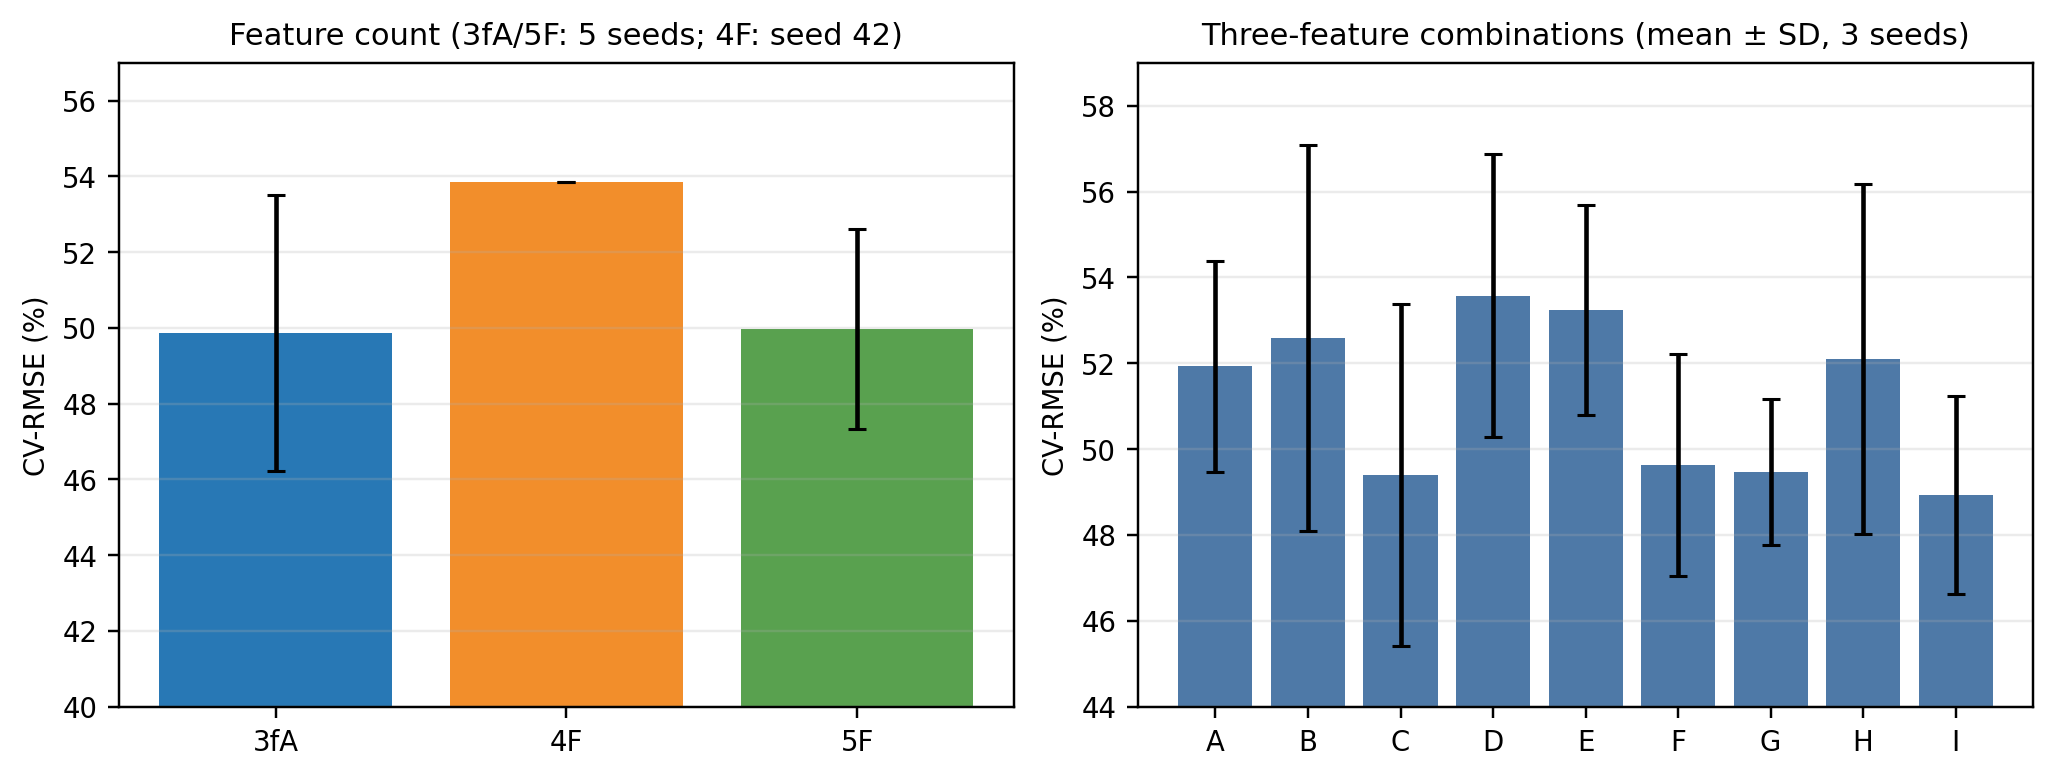
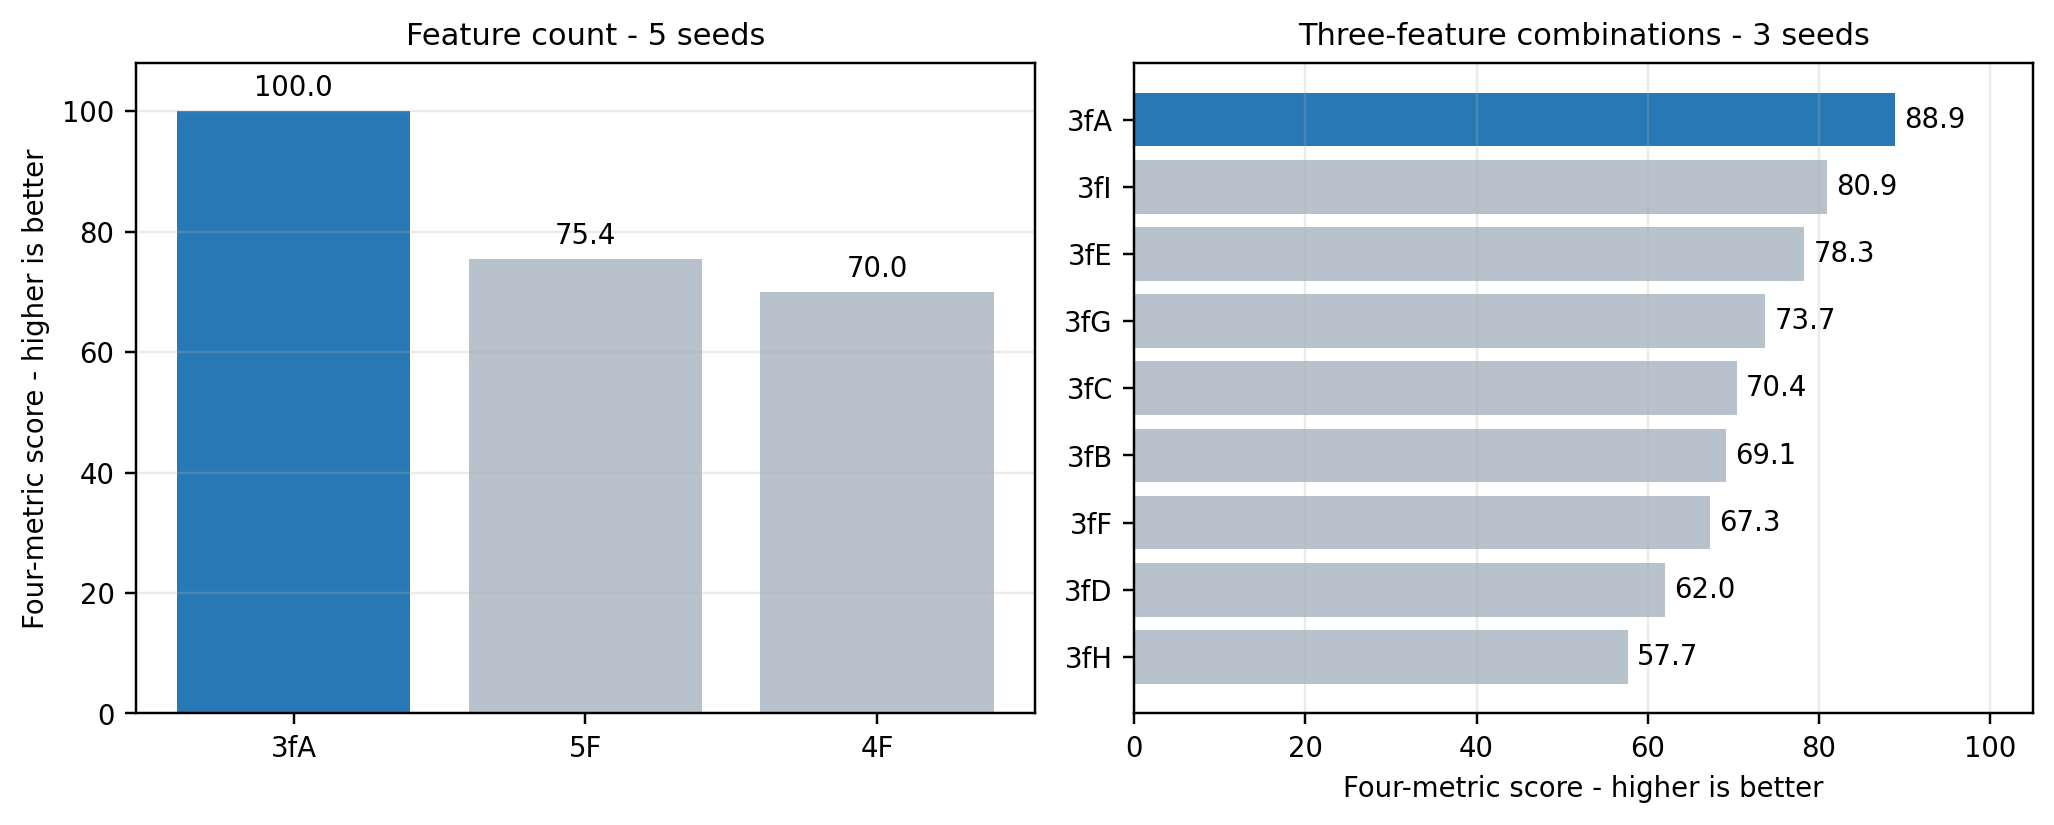
Updated feature ablation analysis, added relative score calculations for four main metrics, and adjusted chart titles and descriptions

diff --git a/report2/build_figures.py b/report2/build_figures.py
@@ -64,13 +64,18 @@ def save_hybrid_ablation() -> None:
 
 
 def save_feature_ablation() -> None:
+    metrics = [
+        "primary_load_cv_rmse_pct",
+        "primary_abs_nmbe_pct",
+        "primary_comfort_degree_hours_per_building_day",
+        "primary_comfort_exceedance_pct",
+    ]
     count_specs = {
         "3fA": ("capacity_load_3f", 5),
         "4F": ("capacity_load_4f", 1),
         "5F": ("capacity_load_5f", 5),
     }
-    count_values: list[float] = []
-    count_errors: list[float] = []
+    count_means: list[pd.Series] = []
     for feature_set, expected_count in count_specs.values():
         rows = PRIMARY.loc[
             (PRIMARY["architecture"] == "TarMAC hybrid")
@@ -81,9 +86,11 @@ def save_feature_ablation() -> None:
             raise ValueError(
                 f"Expected {expected_count} feature-count rows for {feature_set!r}, found {len(rows)}"
             )
-        values = pd.to_numeric(rows["primary_load_cv_rmse_pct"])
-        count_values.append(float(values.mean()))
-        count_errors.append(float(values.std(ddof=1)) if len(values) > 1 else 0.0)
+        count_means.append(rows[metrics].apply(pd.to_numeric).mean())
+
+    count_frame = pd.DataFrame(count_means, index=count_specs)
+    count_relative = count_frame.min(axis=0).div(count_frame).mul(100.0)
+    count_scores = count_relative.mean(axis=1).sort_values(ascending=False)
 
     patterns = {
         "A": r"agglomerative_capacity_load_3f_linear_vt_500_seed[0-2]$",
@@ -96,40 +103,55 @@ def save_feature_ablation() -> None:
         "H": r"agglomerative_3f_H_.*seed[0-2]$",
         "I": r"agglomerative_3f_I_.*seed[0-2]$",
     }
-    means: list[float] = []
-    errors: list[float] = []
+    combination_means: list[pd.Series] = []
     for pattern in patterns.values():
-        values = pd.to_numeric(
-            PRIMARY.loc[
-                PRIMARY["experiment"].str.contains(pattern, regex=True, na=False),
-                "primary_load_cv_rmse_pct",
-            ]
-        )
-        if len(values) != 3:
+        rows = PRIMARY.loc[
+            PRIMARY["experiment"].str.contains(pattern, regex=True, na=False)
+        ]
+        if len(rows) != 3:
             raise ValueError(f"Expected three feature-combination rows for {pattern!r}")
-        means.append(float(values.mean()))
-        errors.append(float(values.std(ddof=1)))
+        combination_means.append(rows[metrics].apply(pd.to_numeric).mean())
 
-    fig, axes = plt.subplots(1, 2, figsize=(9.4, 3.6))
-    axes[0].bar(
-        list(count_specs),
-        count_values,
-        yerr=count_errors,
-        capsize=3,
-        color=["#2878b5", "#f28e2b", "#59a14f"],
+    combination_frame = pd.DataFrame(combination_means, index=patterns)
+    combination_relative = (
+        combination_frame.min(axis=0).div(combination_frame).mul(100.0)
     )
-    axes[0].set_ylim(40, 57)
-    axes[0].set_ylabel("CV-RMSE (%)")
-    axes[0].set_title("Feature count (3fA/5F: 5 seeds; 4F: seed 42)")
-    axes[0].grid(axis="y", alpha=0.25)
+    combination_scores = combination_relative.mean(axis=1).sort_values(
+        ascending=False
+    )
 
-    x = np.arange(len(patterns))
-    axes[1].bar(x, means, yerr=errors, capsize=3, color="#4e79a7")
-    axes[1].set_xticks(x, list(patterns))
-    axes[1].set_ylim(44, 59)
-    axes[1].set_ylabel("CV-RMSE (%)")
-    axes[1].set_title("Three-feature combinations (mean ± SD, 3 seeds)")
-    axes[1].grid(axis="y", alpha=0.25)
+    fig, axes = plt.subplots(1, 2, figsize=(9.4, 3.8))
+
+    count_colors = [
+        "#2878b5" if label == "3fA" else "#b8c2cc" for label in count_scores.index
+    ]
+    count_bars = axes[0].bar(
+        count_scores.index,
+        count_scores.values,
+        color=count_colors,
+    )
+    axes[0].set_ylim(0, 108)
+    axes[0].set_ylabel("Four-metric score - higher is better")
+    axes[0].set_title("Feature count - 5 seeds")
+    axes[0].grid(axis="y", alpha=0.25)
+    axes[0].bar_label(count_bars, fmt="%.1f", padding=3)
+
+    combination_colors = [
+        "#2878b5" if label == "A" else "#b8c2cc"
+        for label in combination_scores.index
+    ]
+    combination_bars = axes[1].barh(
+        [f"3f{label}" for label in combination_scores.index],
+        combination_scores.values,
+        color=combination_colors,
+    )
+    axes[1].invert_yaxis()
+    axes[1].set_xlim(0, 105)
+    axes[1].set_xlabel("Four-metric score - higher is better")
+    axes[1].set_title("Three-feature combinations - 3 seeds")
+    axes[1].grid(axis="x", alpha=0.25)
+    axes[1].bar_label(combination_bars, fmt="%.1f", padding=3)
+
     fig.tight_layout()
     fig.savefig(OUT / "feature_ablation.png", bbox_inches="tight", dpi=220)
     plt.close(fig)

diff --git a/report2/evaluation.tex b/report2/evaluation.tex
@@ -137,6 +137,21 @@ the results support the low-redundancy hypothesis: even when each feature is
 individually relevant, adding more standardized features can still change the
 grouping result and reduce performance.
 
+Figure~\ref{fig:feature-ablation} summarizes all four primary metrics rather
+than displaying CV-RMSE alone. For each lower-is-better metric, a candidate's
+relative score is the best mean value in the panel divided by that candidate's
+mean value, multiplied by 100. The four relative scores for CV-RMSE, absolute
+NMBE, degree-hours, and comfort exceedance are then averaged with equal weight:
+\begin{equation}
+S_j=\frac{100}{4}\sum_{m=1}^{4}
+\frac{\min_k \bar{x}_{k,m}}{\bar{x}_{j,m}}.
+\label{eq:feature-ablation-score}
+\end{equation}
+Higher scores therefore indicate a better overall balance. In the feature-count
+comparison, 3fA ranks first with a score of 100.0, ahead of 5F at 75.4 and 4F at
+70.0. The score is used only to summarize the four reported metrics visually;
+the raw values remain available in Table~\ref{tab:feature-count}.
+
 \begin{table}[!htbp]
 \small
 \begin{center}
@@ -159,8 +174,11 @@ Set & Added information & CV-RMSE & $|$NMBE$|$ & Degree-hours & Comfort \\
 \begin{center}
 \includegraphics[width=0.95\textwidth]{figures/feature_ablation.png}
 \end{center}
-\caption{Feature-count and three-feature combination ablations from recorded
-runs. Five-seed means.}
+\caption{Equal-weight four-metric scores for the feature-count and
+three-feature-combination ablations. Higher is better, and 3fA is highlighted
+in blue. Scores are calculated from the recorded CV-RMSE, absolute NMBE,
+degree-hours, and comfort-exceedance results using
+Equation~\eqref{eq:feature-ablation-score}.}
 \label{fig:feature-ablation}
 \end{figure}
 
@@ -174,6 +192,13 @@ CV-RMSE and degree-hours. 3fE has the lowest comfort variability. In contrast,
 3fA has by far the lowest and most stable absolute bias, $0.49\pm0.18$\%, and
 its features remain directly interpretable across climates. It is therefore
 selected as the best overall compromise.
+
+The right panel of Figure~\ref{fig:feature-ablation} confirms this overall
+selection using the same four-metric score. Across the nine three-feature
+combinations, 3fA ranks first at 88.9, followed by 3fI at 80.9 and 3fE at 78.3.
+This does not mean that 3fA is best on every individual metric; rather, its much
+lower load bias compensates for the individual CV-RMSE and comfort advantages
+of some alternatives and gives it the strongest equal-weight overall result.
 
 \begin{table}[!htbp]
 \scriptsize
